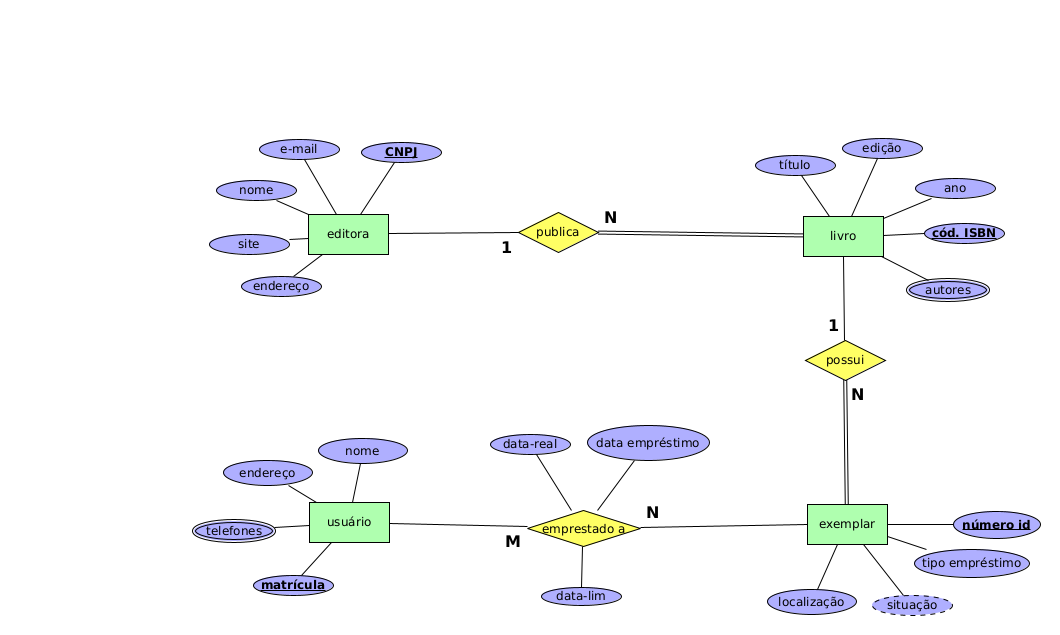
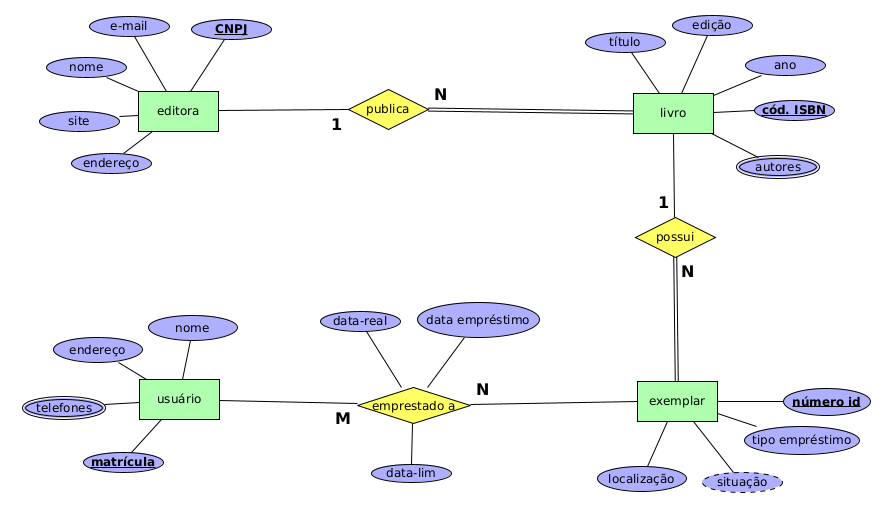
att biblioteca - modelo ER

diff --git a/Modelo_ER/biblioteca/README.md b/Modelo_ER/biblioteca/README.md
@@ -11,5 +11,5 @@ Faça um diagrama ER para um sistema de empréstimos de livros de uma biblioteca
 Uma das possíveis soluções para a [modelagem do problema](biblioteca.xml) descrito é:
 
 <p align="center">
-    <img src="./biblioteca.png" width="800px" height="600px">
+    <img src="./biblioteca.png" width="900px" height="600px">
 </p>
